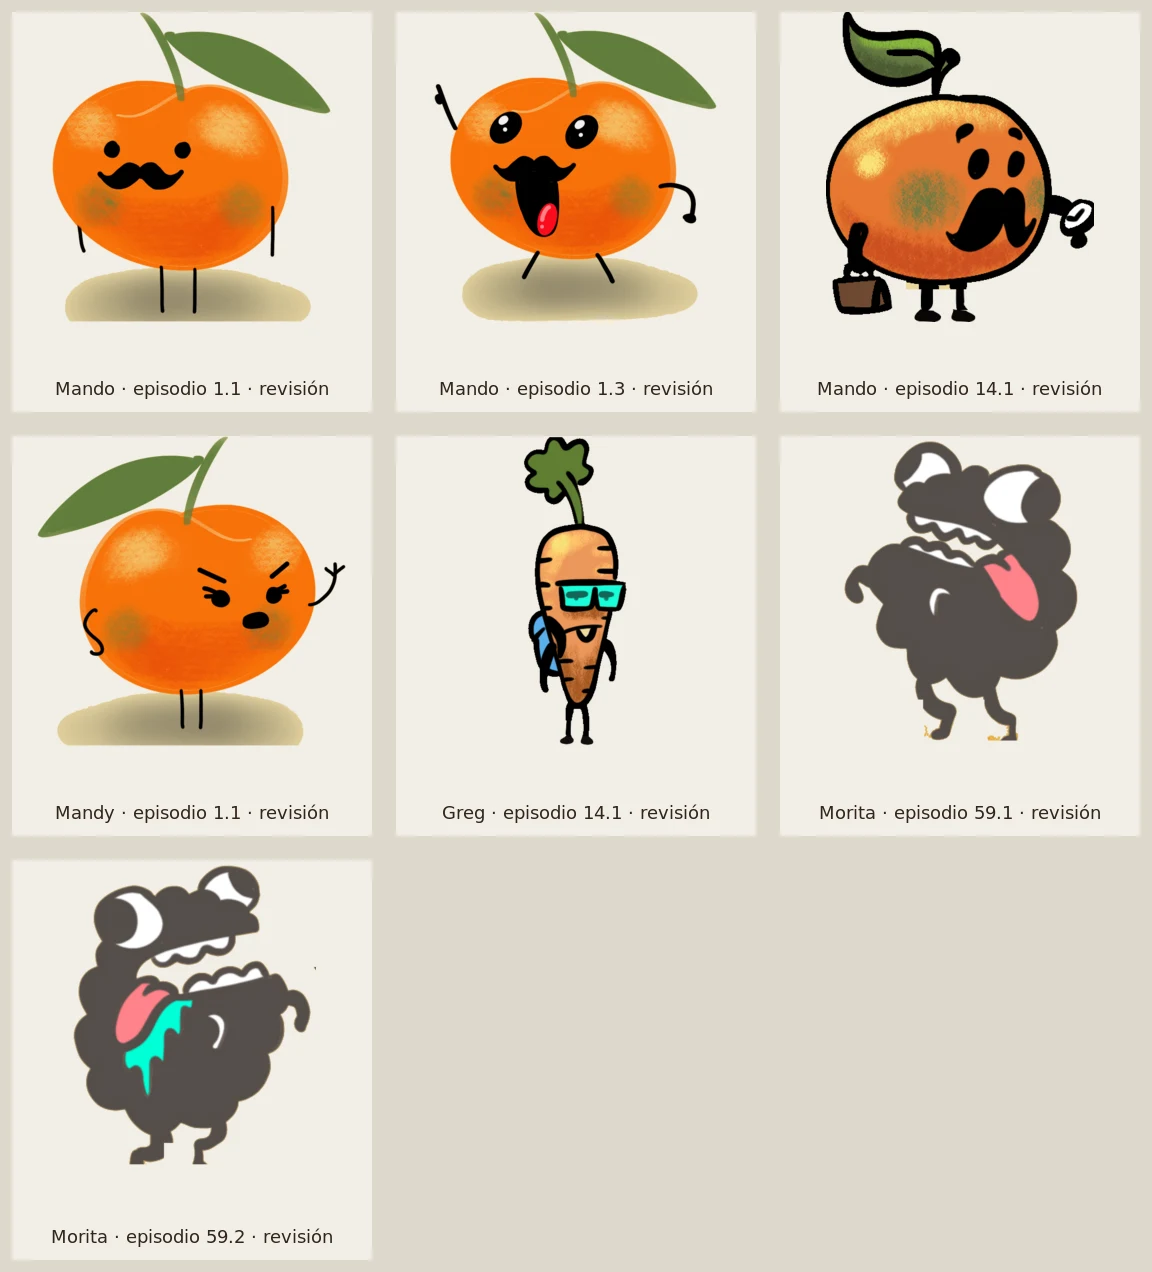
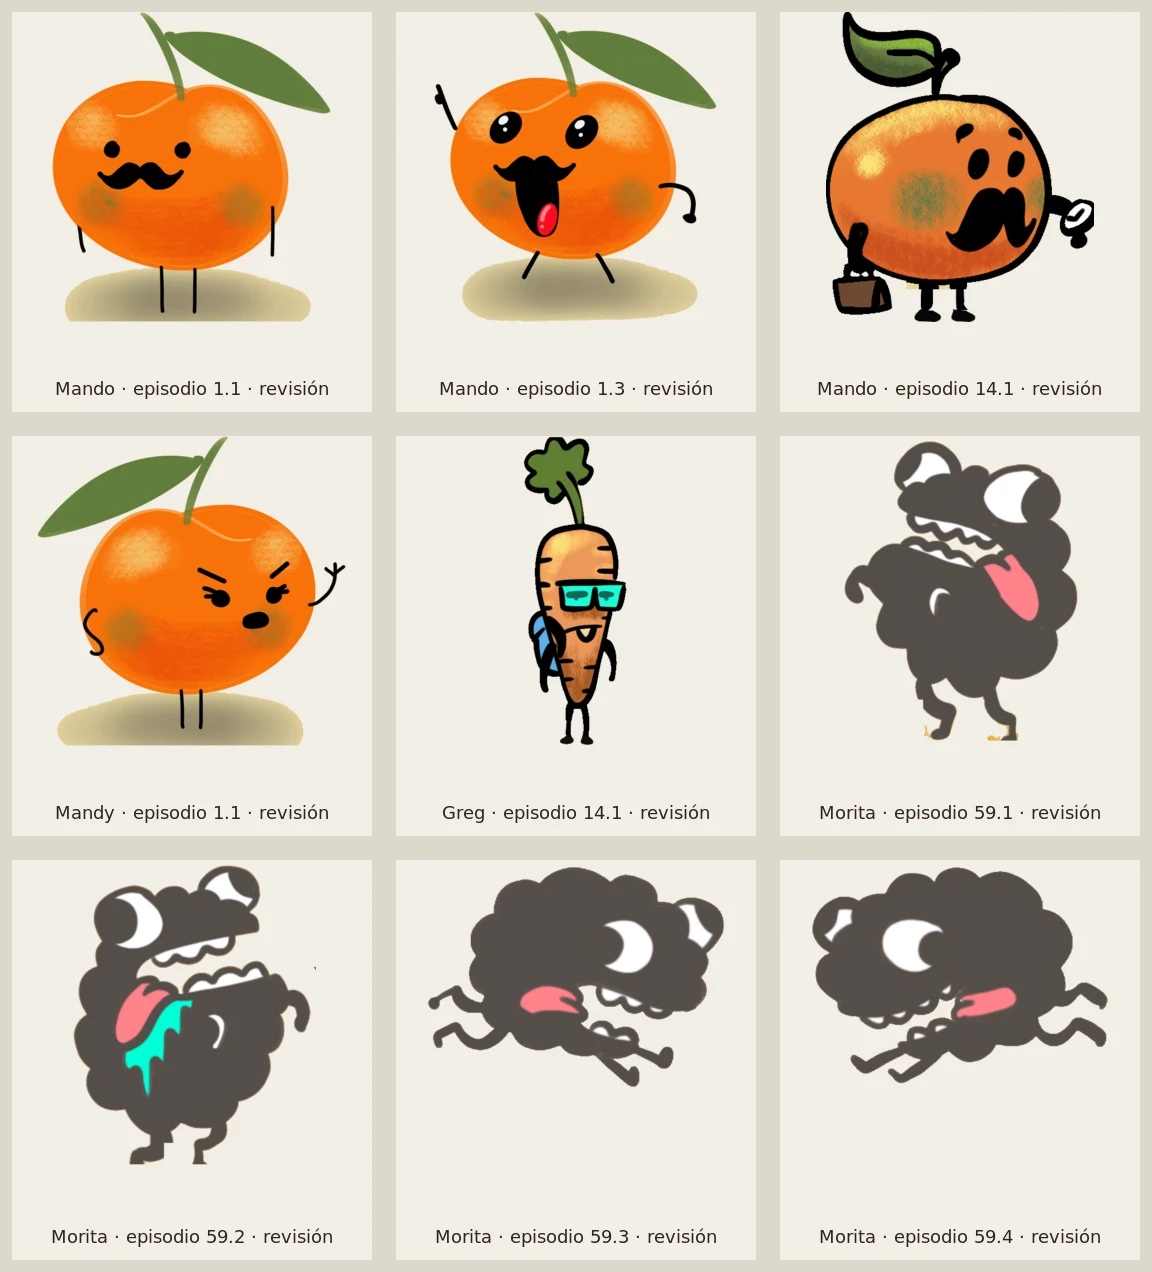
Expand character review and sticker library

Changed region(s): [[0.3438, 0.6745, 1.0, 1.0]]

diff --git a/editor.js b/editor.js
@@ -20,14 +20,14 @@
     { name: 'Limón Agrio', aliases: ['limón', 'limon agrio'], variants: [{ name: 'Recorte transparente', src: 'assets/characters/limon-agrio-transparent.webp' }] },
     { name: 'Aguacatelo', aliases: ['aguacate'], variants: [{ name: 'Recorte transparente', src: 'assets/characters/aguacatelo-transparent.png' }] },
     { name: 'Morita', aliases: ['mora'], variants: [{ name: 'Silueta monocroma', src: 'assets/characters/morita.png' }] },
-    { name: 'Sra. Pera', aliases: ['pera', 'señora pera'], variants: [{ name: 'Recorte transparente', src: 'assets/characters/sra-pera-transparent.webp' }] },
-    { name: 'Sticker frutal · 02', aliases: ['sticker 2'], variants: [{ name: 'Sticker aprobado', src: 'assets/stickers/sticker-pack-02.webp' }] },
-    { name: 'Sticker zanahoria · 03', aliases: ['sticker 3'], variants: [{ name: 'Sticker aprobado', src: 'assets/stickers/sticker-pack-03.webp' }] },
-    { name: 'Sticker frutal · 04', aliases: ['sticker 4'], variants: [{ name: 'Sticker aprobado', src: 'assets/stickers/sticker-pack-04.webp' }] },
-    { name: 'Sticker frutal · 07', aliases: ['sticker 7'], variants: [{ name: 'Sticker aprobado', src: 'assets/stickers/sticker-pack-07.webp' }] }
+    { name: 'Sra. Pera', aliases: ['pera', 'señora pera'], variants: [{ name: 'Recorte transparente', src: 'assets/characters/sra-pera-transparent.webp' }] }
   ].map(x => ({ ...x, category: 'character', approvedCutout: true }));
   const stickers = [
-    { name: 'Sticker frutal · 06', aliases: ['sticker 6', 'expresión frutal'], variants: [{ name: 'Sticker existente', src: 'assets/stickers/sticker-pack-06.webp' }], category: 'character', approvedCutout: true }
+    { name: 'Sticker frutal · 02', aliases: ['sticker 2', 'pack 2'], variants: [{ name: 'Sticker aprobado', src: 'assets/stickers/sticker-pack-02.webp' }], category: 'sticker', approvedCutout: true },
+    { name: 'Sticker zanahoria · 03', aliases: ['sticker 3', 'pack 3'], variants: [{ name: 'Sticker aprobado', src: 'assets/stickers/sticker-pack-03.webp' }], category: 'sticker', approvedCutout: true },
+    { name: 'Sticker frutal · 04', aliases: ['sticker 4', 'pack 4'], variants: [{ name: 'Sticker aprobado', src: 'assets/stickers/sticker-pack-04.webp' }], category: 'sticker', approvedCutout: true },
+    { name: 'Sticker frutal · 06', aliases: ['sticker 6', 'pack 6', 'expresión frutal'], variants: [{ name: 'Sticker existente', src: 'assets/stickers/sticker-pack-06.webp' }], category: 'sticker', approvedCutout: true },
+    { name: 'Sticker frutal · 07', aliases: ['sticker 7', 'pack 7'], variants: [{ name: 'Sticker aprobado', src: 'assets/stickers/sticker-pack-07.webp' }], category: 'sticker', approvedCutout: true }
   ];
   const objects = [
     { name: 'Objeto · sobre', aliases: ['sobre', 'carta'], src: 'assets/art-envelope-2022.webp', category: 'object', approvedCutout: false, note: 'Ilustración completa, no es un recorte independiente.' },
@@ -54,8 +54,14 @@
     { name: 'Mando · episodio 14.1', aliases: ['mando', 'mandarino', 'episodio 14'], src: 'docs/art-review/cutouts/mando-episodio-14-1-borrador.png', source: 'assets/episodes/ep-014-un-dia-malo/14.1.png', note: 'Borrador de recorte con retoque de las puntas de los pies; requiere revisión.' },
     { name: 'Greg · episodio 14.1', aliases: ['greg', 'zanahorio', 'episodio 14'], src: 'docs/art-review/cutouts/greg-episodio-14-1-borrador.png', source: 'assets/episodes/ep-014-un-dia-malo/14.1.png', note: 'Borrador de recorte con retoque de las puntas de los pies; requiere revisión.' },
     { name: 'Morita · pose de pie · episodio 59.1', aliases: ['morita', 'episodio 59', 'pose de pie'], src: 'assets/characters/review/morita-episode-59-1-review.png', source: 'assets/episodes/ep-059-no-juegues-asi/59.1.png', note: 'Borrador basado en los píxeles originales. Queda algo de sombra de la escena; revisar contorno y patas.' },
-    { name: 'Morita · lengua afuera · episodio 59.2', aliases: ['morita', 'episodio 59', 'lengua', 'sorprendida'], src: 'assets/characters/review/morita-episode-59-2-review.png', source: 'assets/episodes/ep-059-no-juegues-asi/59.2.png', note: 'Borrador basado en los píxeles originales. Conserva el efecto turquesa visible en esta pose; confirmar si debe formar parte del componente.' }
+    { name: 'Morita · lengua afuera · episodio 59.2', aliases: ['morita', 'episodio 59', 'lengua', 'sorprendida'], src: 'assets/characters/review/morita-episode-59-2-review.png', source: 'assets/episodes/ep-059-no-juegues-asi/59.2.png', note: 'Borrador basado en los píxeles originales. Conserva el efecto turquesa visible en esta pose; confirmar si debe formar parte del componente.' },
+    { name: 'Morita · pose horizontal · episodio 59.3', aliases: ['morita', 'episodio 59', 'horizontal'], src: 'assets/characters/review/morita-episode-59-3-review.png', source: 'assets/episodes/ep-059-no-juegues-asi/59.3.png', note: 'Recorte de píxeles originales en pose horizontal. Revisa la silueta y decide si se conserva sin los efectos de polvo del panel.' },
+    { name: 'Morita · pose horizontal · episodio 59.4', aliases: ['morita', 'episodio 59', 'horizontal'], src: 'assets/characters/review/morita-episode-59-4-review.png', source: 'assets/episodes/ep-059-no-juegues-asi/59.4.png', note: 'Recorte de píxeles originales en pose horizontal. El polvo independiente del panel no se incluyó; revisar la separación.' }
   ].map(resource => ({ ...resource, category: 'character', approvedCutout: false, reviewOnly: true }));
+  const stickerReviewAssets = [
+    { name: 'Sticker existente · pack 01', aliases: ['sticker 1', 'pack 1'], src: 'assets/stickers/sticker-pack-01.webp', source: 'assets/stickers/sticker-pack-01.webp', note: 'Asset cuadrado opaco del pack existente. Se conserva como referencia; no se le quitó el fondo ni se asignó a un personaje.', reviewKind: 'existing-sticker' },
+    { name: 'Sticker existente · pack 05', aliases: ['sticker 5', 'pack 5', 'logo'], src: 'assets/stickers/sticker-pack-05.webp', source: 'assets/stickers/sticker-pack-05.webp', note: 'Asset cuadrado opaco del pack existente. Contiene el logotipo sobre un círculo amarillo; se conserva como referencia, no como recorte de personaje.', reviewKind: 'existing-sticker' }
+  ].map(resource => ({ ...resource, category: 'sticker', approvedCutout: false, reviewOnly: true }));
   const backgroundColors = [
     { name: 'Blanco limpio', color: '#FFFFFF', source: 'Base' },
     { name: 'Crema Mandarinita', color: '#FFF8EC', source: 'Marca' },
@@ -72,7 +78,7 @@
     { name: 'Azul cielo', color: '#87DEFA', source: 'Episodio 52 · 52.1' },
     { name: 'Azul claro', color: '#93CCFF', source: 'Episodio 70 · 70.1' }
   ];
-  const resources = [...people, ...stickers, ...objects, ...backgrounds, ...reviewCharacterCutouts];
+  const resources = [...people, ...stickers, ...objects, ...backgrounds, ...reviewCharacterCutouts, ...stickerReviewAssets];
   const $ = selector => document.querySelector(selector);
   const $$ = selector => [...document.querySelectorAll(selector)];
   let state = null;
@@ -1229,7 +1235,7 @@
     candidates.forEach(resource => {
       const card = document.createElement('button'); card.className = `asset-card${resource.approvedCutout ? '' : ' reference-card'}`;
       const thumb = resource.variants?.[0]?.src || resource.src;
-      card.innerHTML = `<img src="${thumb}" alt="" loading="lazy"><span>${escapeHTML(resource.name)}</span><small>${resource.approvedCutout ? 'Componente aprobado' : resource.reviewOnly ? 'Recorte en revisión · no insertable' : resource.category === 'background' ? 'Referencia · lámina completa' : resource.note}</small>`;
+      card.innerHTML = `<img src="${thumb}" alt="" loading="lazy"><span>${escapeHTML(resource.name)}</span><small>${resource.approvedCutout ? 'Componente aprobado' : resource.reviewKind === 'existing-sticker' ? 'Sticker existente · referencia no insertable' : resource.reviewOnly ? 'Recorte en revisión · no insertable' : resource.category === 'background' ? 'Referencia · lámina completa' : resource.note}</small>`;
       card.disabled = !resource.approvedCutout && !resource.reviewOnly;
       if (resource.reviewOnly) {
         card.setAttribute('aria-label', `Revisar ${resource.name}. No se puede insertar todavía.`);
@@ -1278,16 +1284,17 @@
   }
   function openCutoutReview(resource) {
     const dialog = $('#reference-preview-dialog');
+    const existingSticker = resource.reviewKind === 'existing-sticker';
     $('#reference-preview-title').textContent = resource.name;
-    $('#reference-preview-subtitle').textContent = 'Borrador de recorte · recurso pendiente de aprobación';
-    $('#reference-preview-pose-label').textContent = 'Estado del recorte';
+    $('#reference-preview-subtitle').textContent = existingSticker ? 'Sticker existente · referencia no insertable' : 'Borrador de recorte · recurso pendiente de aprobación';
+    $('#reference-preview-pose-label').textContent = existingSticker ? 'Tipo de recurso' : 'Estado del recorte';
     $('#reference-preview-expression-label').textContent = 'Nota de revisión';
-    $('#reference-preview-pose').textContent = 'Los píxeles proceden de la pose visible en el episodio enlazado.';
+    $('#reference-preview-pose').textContent = existingSticker ? 'Imagen del pack existente; no se cambió ni se separó del fondo.' : 'Los píxeles proceden de la pose visible en el episodio enlazado.';
     $('#reference-preview-expression').textContent = resource.note;
     $('#reference-preview-image').src = resource.src;
-    $('#reference-preview-image').alt = `Borrador transparente de ${resource.name}`;
+    $('#reference-preview-image').alt = existingSticker ? `Referencia del ${resource.name}` : `Borrador transparente de ${resource.name}`;
     $('#reference-preview-source').href = resource.source;
-    $('#reference-preview-note').textContent = 'Este recurso aparece para revisión en la biblioteca, pero todavía no se puede insertar en el lienzo. Al aprobarlo, se podrá activar como componente.';
+    $('#reference-preview-note').textContent = existingSticker ? 'La imagen original se mantiene intacta. No se puede insertar hasta confirmar su uso y, si corresponde, preparar un PNG transparente.' : 'Este recurso aparece para revisión en la biblioteca, pero todavía no se puede insertar en el lienzo. Al aprobarlo, se podrá activar como componente.';
     dialog.showModal();
   }
   function renderBackgroundColors(grid, query = '') {
@@ -1809,7 +1816,7 @@
     $('#tab-components').innerHTML=`${svgIcon('box')}<span>Componentes</span>`;
     $('#tab-layers').innerHTML=`${svgIcon('layers')}<span>Capas</span> <span id="layer-count-tab">0</span>`;
     labeledIcon('#add-panel','panelPlus','Viñeta'); labeledIcon('#add-text','text','Texto'); labeledIcon('#add-bubble','bubble','Añadir globo');
-    const filterIcons={all:'grid',character:'users',object:'box',background:'image',reference:'book'};
+    const filterIcons={all:'grid',character:'users',object:'box',background:'image',sticker:'layers',reference:'book'};
     $$('.filters [data-filter]').forEach(button=>{const label=button.textContent.trim();button.classList.add('has-icon');button.innerHTML=`${svgIcon(filterIcons[button.dataset.filter]||'grid')}<span class="button-label">${label}</span>`;button.setAttribute('aria-label',label);button.title=label;});
     const orderToggle = $('#toggle-order-strip');
     if (window.matchMedia('(max-width: 720px)').matches) {

diff --git a/editor.html b/editor.html
@@ -62,7 +62,7 @@
         <section id="components-panel" class="left-tab-panel" role="tabpanel" aria-labelledby="tab-components">
           <label class="search"><svg class="ui-icon" viewBox="0 0 24 24" fill="none" stroke="currentColor" stroke-width="1.8" stroke-linecap="round" aria-hidden="true"><circle cx="10.8" cy="10.8" r="6.8"></circle><path d="m16 16 5 5"></path></svg><input id="asset-search" type="search" placeholder="Personaje, alias u objeto" aria-label="Buscar recursos"></label>
           <nav class="filters" aria-label="Filtrar recursos">
-            <button class="active" data-filter="all">Todo</button><button data-filter="character">Personajes</button><button data-filter="object">Objetos</button><button data-filter="background">Fondos</button><button data-filter="reference">Referencias</button>
+            <button class="active" data-filter="all">Todo</button><button data-filter="character">Personajes</button><button data-filter="object">Objetos</button><button data-filter="background">Fondos</button><button data-filter="sticker">Stickers</button><button data-filter="reference">Referencias</button>
           </nav>
           <label id="reference-character-filter" class="reference-character-filter" hidden><span>Personaje</span><select id="reference-character-select" aria-label="Filtrar referencias por personaje"><option value="">Todos los personajes</option></select></label>
           <div id="asset-grid" class="asset-grid"></div>

diff --git a/editor-service-worker.js b/editor-service-worker.js
@@ -1,4 +1,4 @@
-const CACHE_NAME = 'mandarinita-editor-v23';
+const CACHE_NAME = 'mandarinita-editor-v25';
 const APP_SHELL = [
   '/editor.css',
   '/editor.js',
@@ -24,6 +24,15 @@ const APP_SHELL = [
   '/assets/characters/superfreso-transparent.webp',
   '/assets/characters/review/morita-episode-59-1-review.png',
   '/assets/characters/review/morita-episode-59-2-review.png',
+  '/assets/characters/review/morita-episode-59-3-review.png',
+  '/assets/characters/review/morita-episode-59-4-review.png',
+  '/assets/stickers/sticker-pack-01.webp',
+  '/assets/stickers/sticker-pack-02.webp',
+  '/assets/stickers/sticker-pack-03.webp',
+  '/assets/stickers/sticker-pack-04.webp',
+  '/assets/stickers/sticker-pack-05.webp',
+  '/assets/stickers/sticker-pack-06.webp',
+  '/assets/stickers/sticker-pack-07.webp',
   '/docs/art-review/cutouts/mando-episodio-01-1-borrador.png',
   '/docs/art-review/cutouts/mandy-episodio-01-1-borrador.png',
   '/docs/art-review/cutouts/mando-episodio-01-3-borrador.png',

diff --git a/docs/art-review/cutouts/build-morita-59-4-review.py b/docs/art-review/cutouts/build-morita-59-4-review.py
@@ -1,0 +1,70 @@
+"""Make a source-pixel, review-only Morita cutout from published panel 59.4."""
+from pathlib import Path
+from PIL import Image, ImageDraw, ImageChops
+
+ROOT = Path(__file__).resolve().parents[3]
+SOURCE = ROOT / 'assets/episodes/ep-059-no-juegues-asi/59.4.png'
+OUTPUT = ROOT / 'assets/characters/review/morita-episode-59-4-review.png'
+CROP = (740, 1250, 1450, 1780)
+MARKER = (255, 0, 255)
+
+source = Image.open(SOURCE).convert('RGBA')
+crop = source.crop(CROP)
+segmented = crop.convert('RGB').copy()
+for seed in ((0, 0), (709, 0), (0, 529), (709, 529), (140, 0), (570, 0), (140, 529), (570, 529)):
+    ImageDraw.floodfill(segmented, seed, MARKER, thresh=76)
+removed = Image.new('L', crop.size)
+pixels, mask = segmented.load(), removed.load()
+for y in range(crop.height):
+    for x in range(crop.width):
+        if pixels[x, y] == MARKER:
+            mask[x, y] = 255
+alpha = ImageChops.subtract(crop.getchannel('A'), removed)
+# Morita's figure uses charcoal, white and pink here; remove connected ochre
+# flecks left from the episode floor while preserving those source colors.
+rgb, alpha_pixels = crop.convert('RGB').load(), alpha.load()
+for y in range(crop.height):
+    for x in range(crop.width):
+        red, green, blue = rgb[x, y]
+        if red > 140 and green > 105 and blue < 190 and red > blue * 1.2 and green > blue * 1.05:
+            alpha_pixels[x, y] = 0
+
+# Keep only Morita's connected silhouette; adjacent dust and table marks stay out.
+width, height = crop.size
+mask = alpha.load()
+seen = bytearray(width * height)
+largest = []
+for y in range(height):
+    for x in range(width):
+        start = y * width + x
+        if seen[start] or mask[x, y] == 0:
+            continue
+        seen[start] = 1
+        component = [start]
+        for point in component:
+            px, py = point % width, point // width
+            for ny in range(max(0, py - 1), min(height, py + 2)):
+                for nx in range(max(0, px - 1), min(width, px + 2)):
+                    index = ny * width + nx
+                    if not seen[index] and mask[nx, ny] > 0:
+                        seen[index] = 1
+                        component.append(index)
+        if len(component) > len(largest):
+            largest = component
+keep = bytearray(width * height)
+for point in largest:
+    keep[point] = 1
+for y in range(height):
+    for x in range(width):
+        if not keep[y * width + x]:
+            mask[x, y] = 0
+crop.putalpha(alpha)
+bbox = alpha.getbbox()
+if not bbox:
+    raise SystemExit('No foreground pixels remain')
+l, t, r, b = bbox
+pad = 12
+crop = crop.crop((max(0, l-pad), max(0, t-pad), min(width, r+pad), min(height, b+pad)))
+OUTPUT.parent.mkdir(parents=True, exist_ok=True)
+crop.save(OUTPUT, optimize=True)
+print(f'{OUTPUT.relative_to(ROOT)} {crop.width}x{crop.height}')

diff --git a/docs/art-review/cutouts/build-morita-59-3-review.py b/docs/art-review/cutouts/build-morita-59-3-review.py
@@ -1,0 +1,70 @@
+"""Make a source-pixel, review-only Morita cutout from published panel 59.3."""
+from pathlib import Path
+from PIL import Image, ImageDraw, ImageChops
+
+ROOT = Path(__file__).resolve().parents[3]
+SOURCE = ROOT / 'assets/episodes/ep-059-no-juegues-asi/59.3.png'
+OUTPUT = ROOT / 'assets/characters/review/morita-episode-59-3-review.png'
+CROP = (680, 1390, 1350, 1900)
+MARKER = (255, 0, 255)
+
+source = Image.open(SOURCE).convert('RGBA')
+crop = source.crop(CROP)
+segmented = crop.convert('RGB').copy()
+for seed in ((0, 0), (669, 0), (0, 509), (669, 509), (130, 0), (530, 0), (130, 509), (530, 509)):
+    ImageDraw.floodfill(segmented, seed, MARKER, thresh=76)
+removed = Image.new('L', crop.size)
+pixels, mask = segmented.load(), removed.load()
+for y in range(crop.height):
+    for x in range(crop.width):
+        if pixels[x, y] == MARKER:
+            mask[x, y] = 255
+alpha = ImageChops.subtract(crop.getchannel('A'), removed)
+# Morita's figure uses charcoal, white and pink here; remove connected ochre
+# flecks left from the episode floor while preserving those source colors.
+rgb, alpha_pixels = crop.convert('RGB').load(), alpha.load()
+for y in range(crop.height):
+    for x in range(crop.width):
+        red, green, blue = rgb[x, y]
+        if red > 140 and green > 105 and blue < 190 and red > blue * 1.2 and green > blue * 1.05:
+            alpha_pixels[x, y] = 0
+
+# The sticker and dust cloud near the bottom are separate panel graphics.
+width, height = crop.size
+mask = alpha.load()
+seen = bytearray(width * height)
+largest = []
+for y in range(height):
+    for x in range(width):
+        start = y * width + x
+        if seen[start] or mask[x, y] == 0:
+            continue
+        seen[start] = 1
+        component = [start]
+        for point in component:
+            px, py = point % width, point // width
+            for ny in range(max(0, py - 1), min(height, py + 2)):
+                for nx in range(max(0, px - 1), min(width, px + 2)):
+                    index = ny * width + nx
+                    if not seen[index] and mask[nx, ny] > 0:
+                        seen[index] = 1
+                        component.append(index)
+        if len(component) > len(largest):
+            largest = component
+keep = bytearray(width * height)
+for point in largest:
+    keep[point] = 1
+for y in range(height):
+    for x in range(width):
+        if not keep[y * width + x]:
+            mask[x, y] = 0
+crop.putalpha(alpha)
+bbox = alpha.getbbox()
+if not bbox:
+    raise SystemExit('No foreground pixels remain')
+l, t, r, b = bbox
+pad = 12
+crop = crop.crop((max(0, l-pad), max(0, t-pad), min(width, r+pad), min(height, b+pad)))
+OUTPUT.parent.mkdir(parents=True, exist_ok=True)
+crop.save(OUTPUT, optimize=True)
+print(f'{OUTPUT.relative_to(ROOT)} {crop.width}x{crop.height}')

diff --git a/docs/art-review/cutouts/README.md b/docs/art-review/cutouts/README.md
@@ -28,9 +28,9 @@ Los dos recortes usan el panel original `assets/episodes/ep-014-un-dia-malo/14.1
 
 ## Morita · episodio 59
 
-Se añadieron dos recortes de estudio tomados de los paneles publicados `59.1` y `59.2`, conservando los píxeles de las poses originales. `morita-episode-59-1-review.png` muestra la pose de pie, pero conserva restos de sombra y requiere revisar el borde de las patas. `morita-episode-59-2-review.png` conserva la lengua y el efecto turquesa que aparece junto al personaje; Mauricio debe decidir si ese efecto debe permanecer unido al componente. Los procedimientos reproducibles son [`build-morita-59-1-review.py`](build-morita-59-1-review.py) y [`build-morita-59-2-review.py`](build-morita-59-2-review.py).
+Se añadieron cuatro recortes de estudio tomados de los paneles publicados `59.1` a `59.4`, conservando píxeles de las poses originales. `59.1` muestra la pose de pie con algo de sombra en los pies. `59.2` conserva la lengua y el efecto turquesa junto a Morita; Mauricio decidirá si se mantienen unidos. `59.3` y `59.4` muestran dos poses horizontales; se excluyeron los detalles de polvo separados del personaje. Los cuatro siguen pendientes de revisión y aprobación. Los procedimientos reproducibles son [`build-morita-59-1-review.py`](build-morita-59-1-review.py), [`build-morita-59-2-review.py`](build-morita-59-2-review.py), [`build-morita-59-3-review.py`](build-morita-59-3-review.py) y [`build-morita-59-4-review.py`](build-morita-59-4-review.py).
 
-Los dos archivos aparecen en Componentes → Personajes como **recortes en revisión** para poder examinarlos dentro del editor; siguen deshabilitados para insertar. No son variaciones aprobadas ni se han sumado al catálogo de componentes publicables. Los cinco recortes piloto anteriores también se muestran allí con el mismo estado de revisión.
+Los cuatro archivos aparecen en Componentes → Personajes como **recortes en revisión** para poder examinarlos dentro del editor; siguen deshabilitados para insertar. No son variaciones aprobadas ni se han sumado al catálogo de componentes publicables. Los cinco recortes piloto anteriores también se muestran allí con el mismo estado. La pestaña **Stickers** separa los stickers existentes de los personajes: los packs transparentes 02, 03, 04, 06 y 07 son insertables; los packs opacos 01 y 05 aparecen como referencias no insertables y conservan sus fondos originales.
 
 ## Sofá azul · episodio 9.2
 
@@ -38,6 +38,6 @@ Las propuestas `sofa-azul-episodio-51-1-borrador*.png` son estudios fallidos, no
 
 La primera alternativa, `sofa-azul-episodio-09-2-borrador.png`, se conserva como versión anterior; tiene una forma más recta y una paleta menos saturada, y queda supersedida por la propuesta del episodio 51.
 
-Los siete recortes de personaje se muestran en el editor únicamente para revisión; ninguno se añadió al manifiesto de componentes aprobados. Los recortes del episodio 14 incluyen retoques localizados en las puntas inferiores; los del episodio 1 conservan sombras; Morita 59.1 tiene restos de escena y 59.2 conserva el efecto turquesa. El estudio del sofá está rechazado y no es reutilizable. La hoja de contacto se regenera con [`build-review-contact-sheet.sh`](build-review-contact-sheet.sh).
+Los nueve recortes de personaje se muestran en el editor únicamente para revisión; ninguno se añadió al manifiesto de componentes aprobados. Los del episodio 14 incluyen retoques localizados en las puntas inferiores; los del episodio 1 conservan sombras; Morita 59.1 tiene algo de sombra de contacto y 59.2 conserva el efecto turquesa. El estudio del sofá está rechazado y no es reutilizable. La hoja de contacto se regenera con [`build-review-contact-sheet.sh`](build-review-contact-sheet.sh).
 
 El original del episodio sigue intacto y la ficha de su aparición en el catálogo conserva su ruta de origen.
